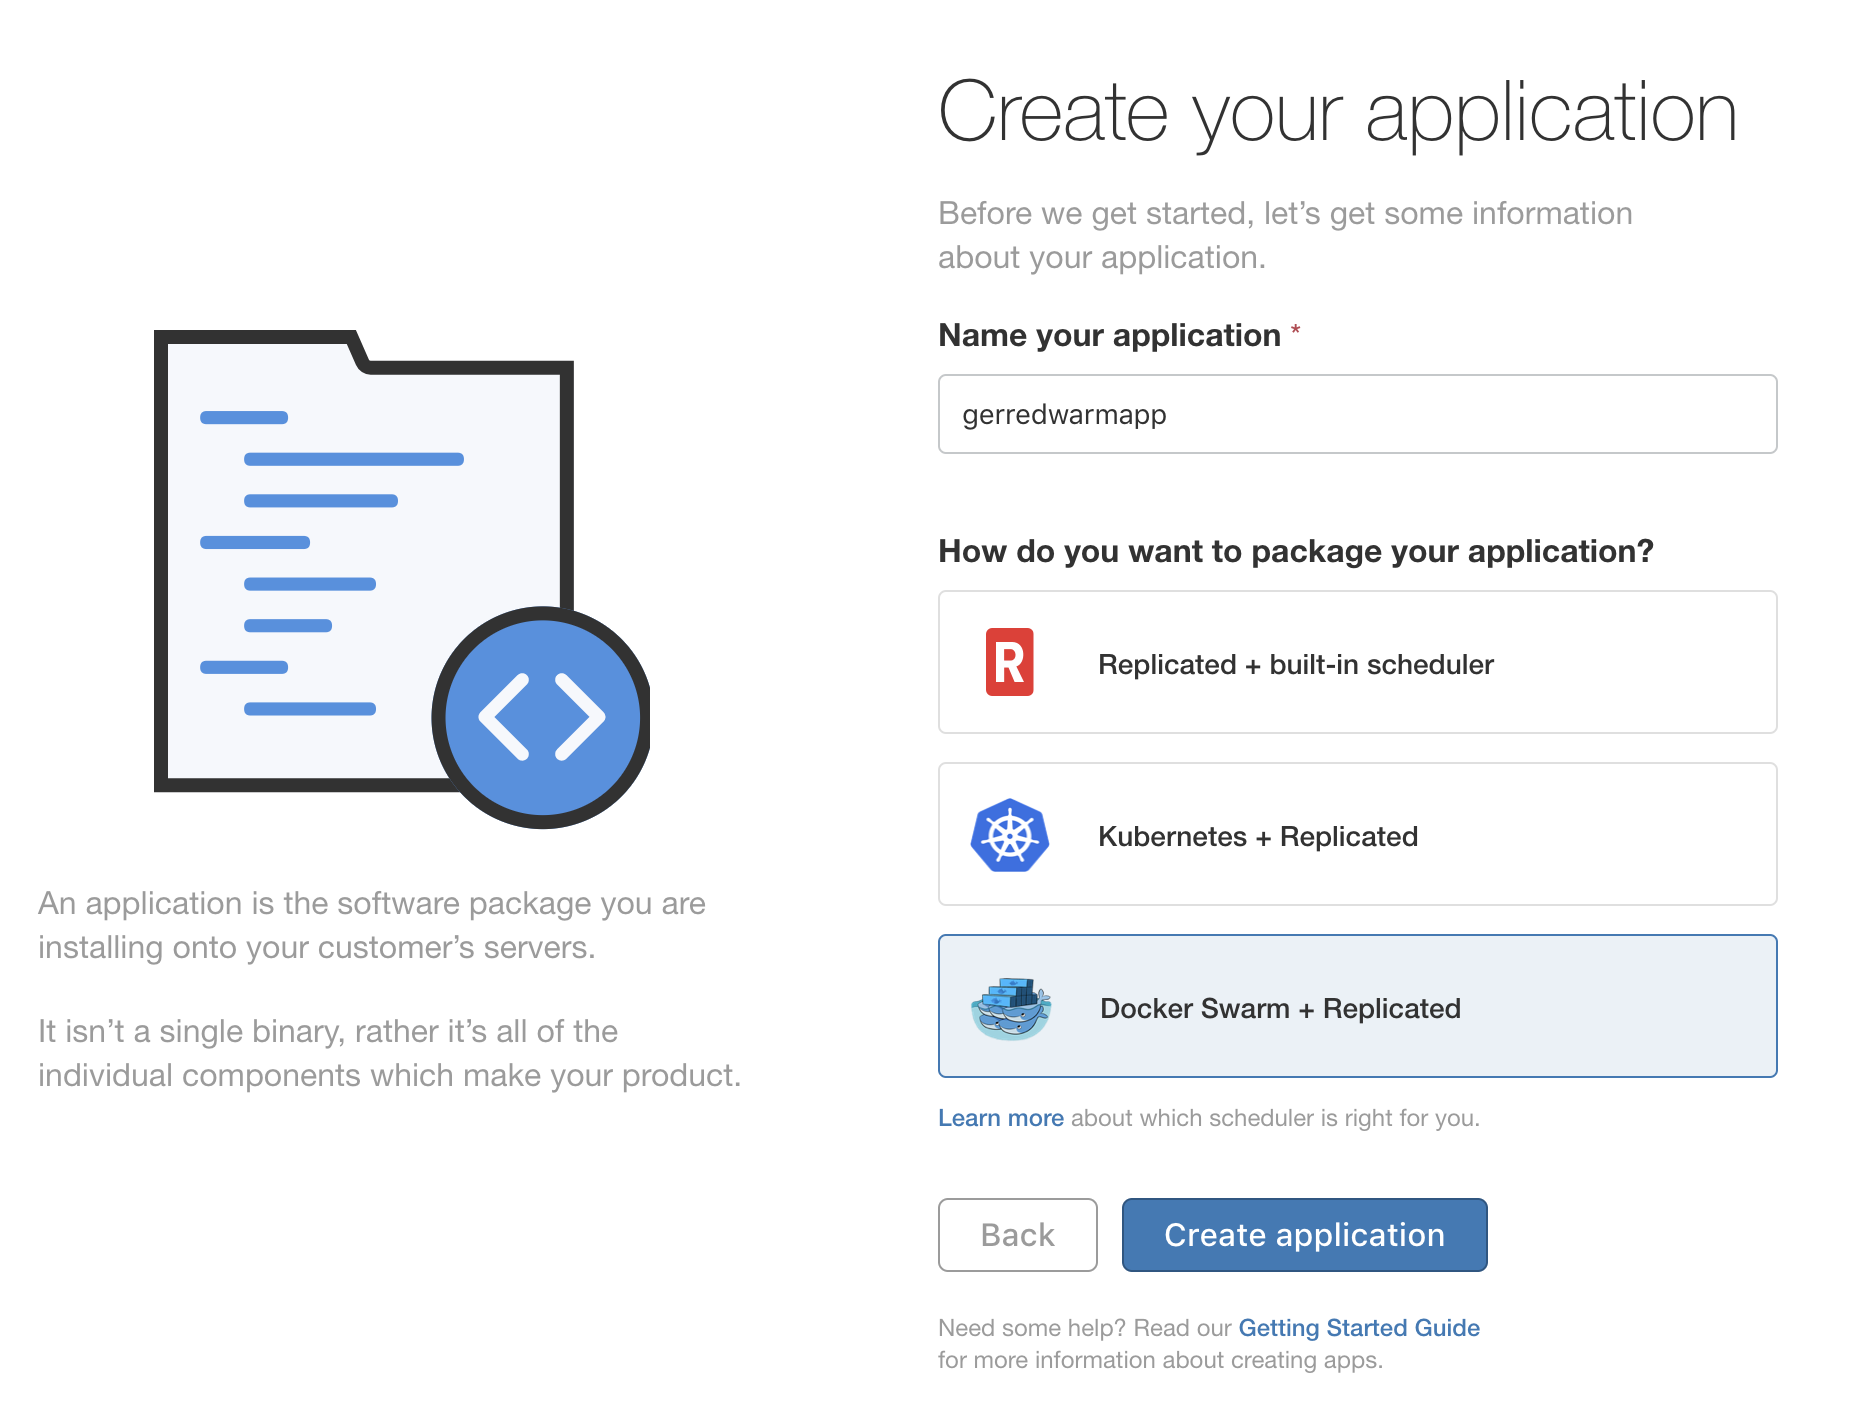
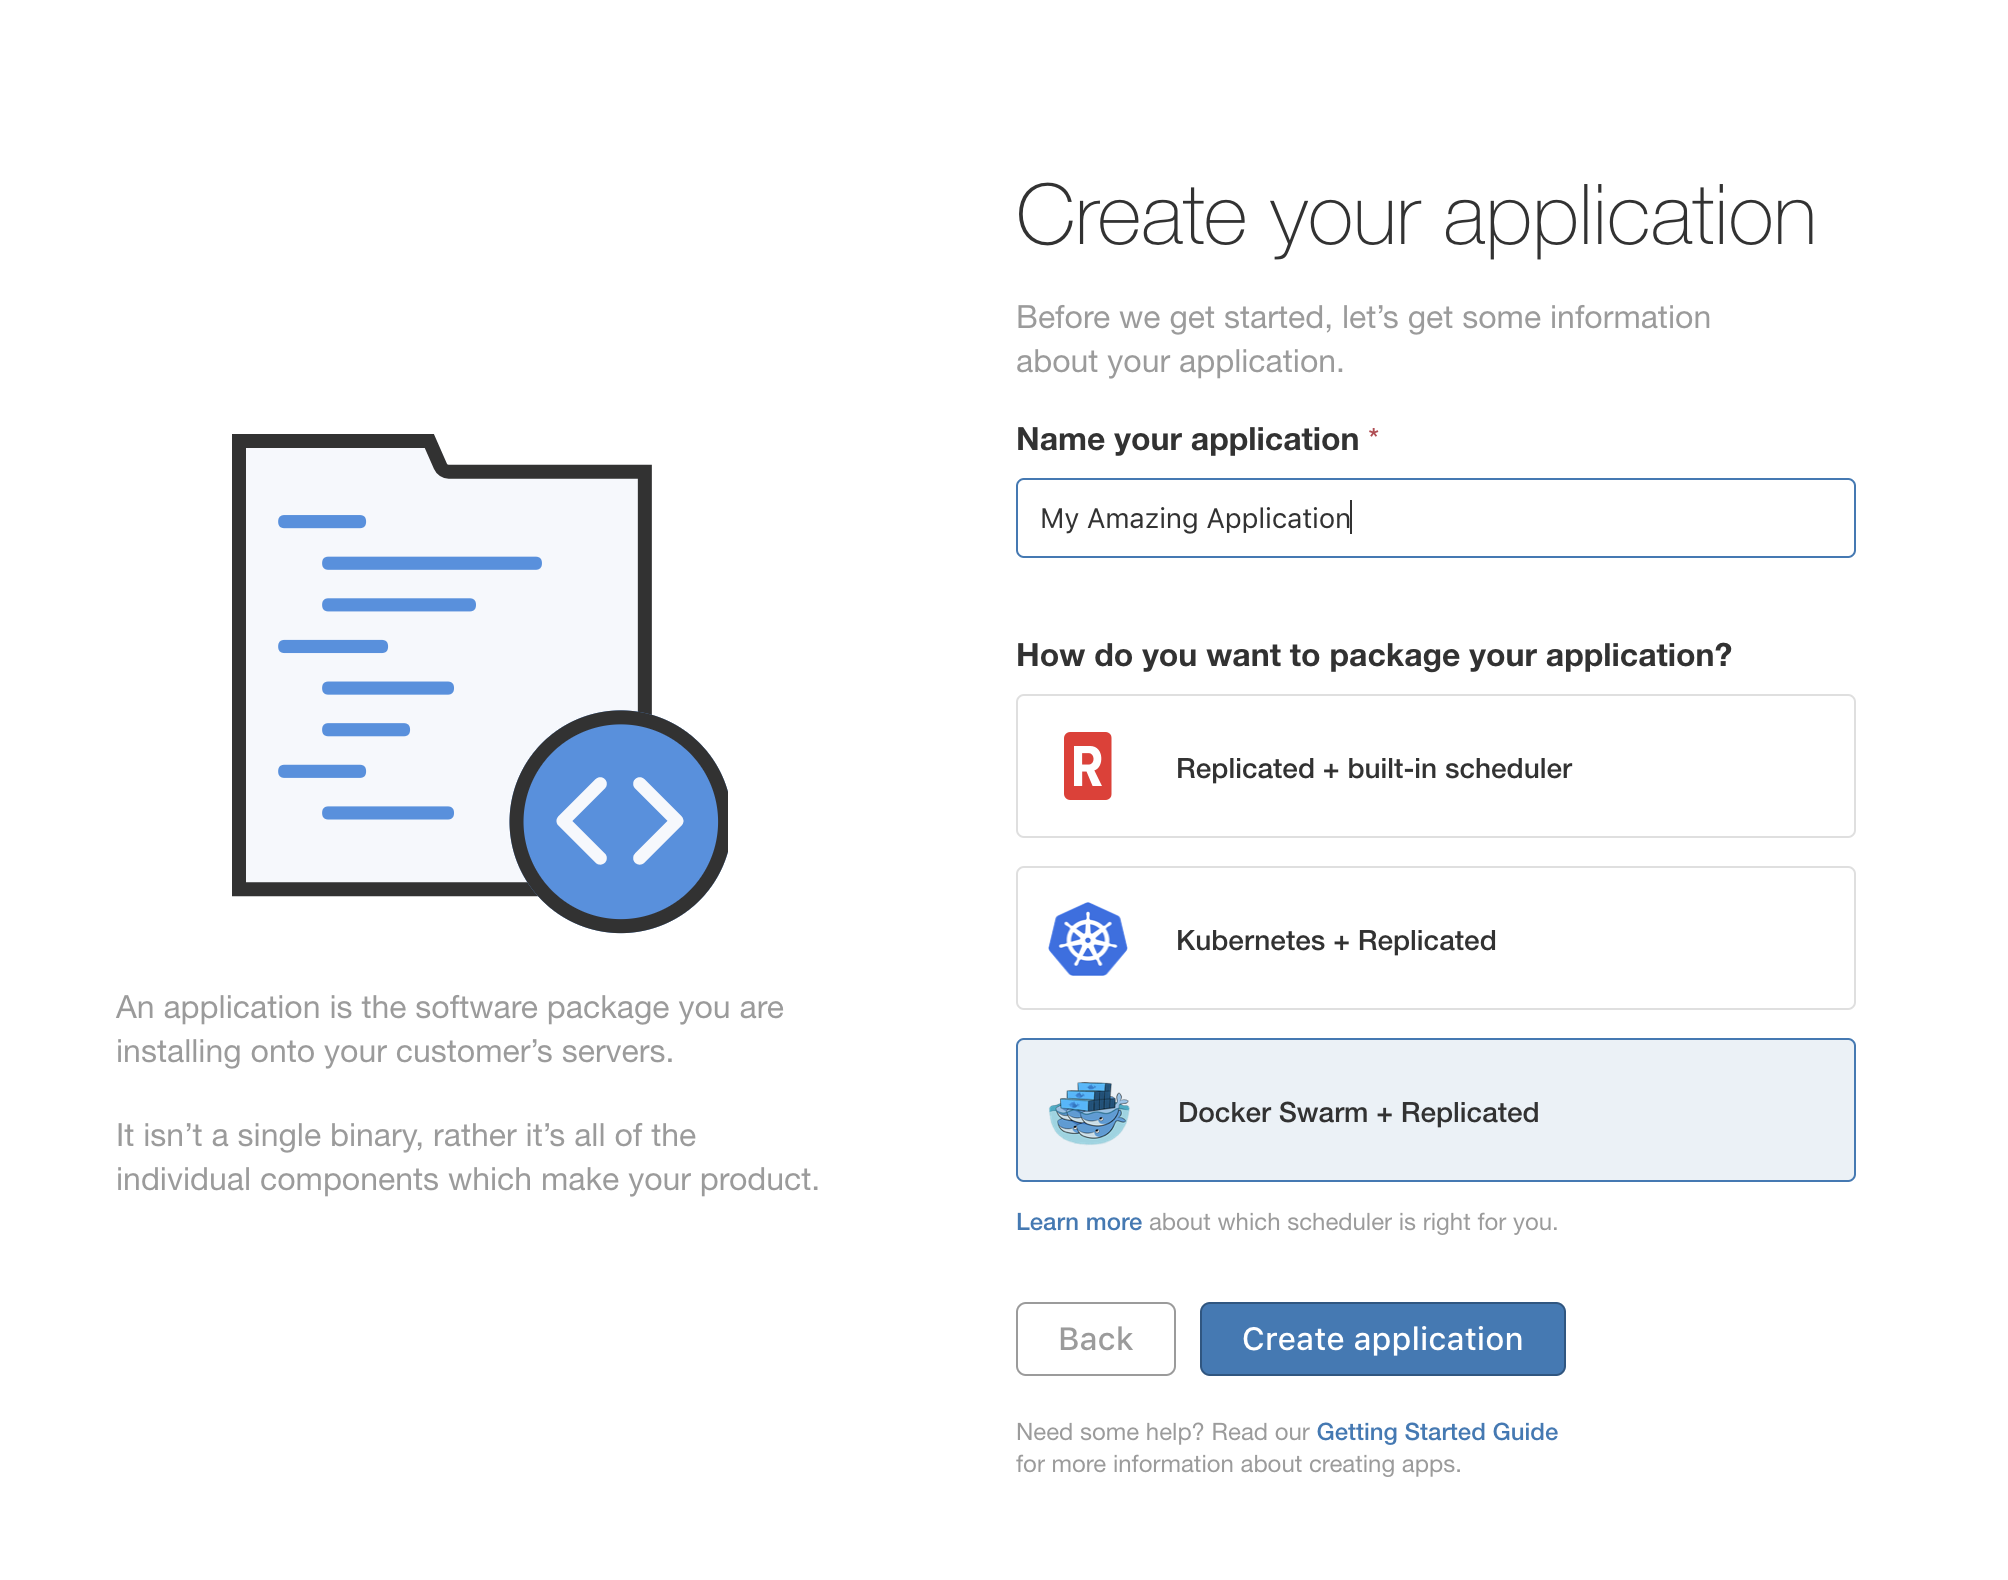
add images for the first guide

diff --git a/content/guides/ship-with-docker-swarm/create-swarm-app.md b/content/guides/ship-with-docker-swarm/create-swarm-app.md
@@ -69,15 +69,23 @@ If you require help at any time with these steps, help is available through the 
 
 {{< linked_headline "Create a New Application" >}}
 
-The first step in porting our software to a Replicated release is to create a new application in the [Vendor Portal](https://vendor.replicated.com). Sign up and activate your account to access the primary dashboard, which prompts you to create a new application.
+The first step in porting our software to a Replicated release is to create a new application in the [Vendor Portal](https://vendor.replicated.com). Sign up and activate your account to access the primary dashboard, which prompts you to create a new application. Fill in an application name, select the `Docker Swarm + Replicated` option, and click "Create application" to continue.
 
-Creating a Replicated application redirects you to a specific dashboard for this application. This dashboard is the main location for managing releases, customer licenses, and channels  releases to customer licenses. The default page for applications is the "Channels" page. In Replicated, a channel represents a stage for your application and is assigned to a release, or version of your application. Through this, your application can map to your organization's release strategy by concurrently providing stable, alpha, beta, and other channels for deployment. These channels, when assigned to your customers, can then update to the latest release for a given channel. To let customers switch on demand, assign them to multiple channels.
+![](/images/guides/swarm/create-app.png)
 
-New applications have "Stable", "Beta", and "Unstable" channels that we can use to start creating releases. Click the "Releases" item on the left menu to navigate to the release history. When  Click the "Create a release" button to start the process of creating our first release.
+Creating a Replicated application redirects you to a specific dashboard for this application. This dashboard is the main location for managing releases, customer licenses, and channels  releases to customer licenses. The default page for applications is the "Channels" page.
+
+![](/images/guides/swarm/default-screen.png)
+
+New applications have "Stable", "Beta", and "Unstable" channels that we can use to start creating releases. Click the "Releases" item on the left menu to navigate to the release history. Click the "Create a release" button to start the process of creating our first release.
+
+![](/images/guides/swarm/create-release.png)
 
 {{< linked_headline "Create a Release" >}}
 
 YAML is the language we use to define a Replicated application. Front and center is a YAML editor where you define the containers and configuration that comprises your application and how Replicated extends it to your customer's environment. To the right of the YAML editor is a preview of the configuration items as defined by your Replicated YAML. The default document stubs in a hostname field, but you will want to use config items to let end users customize your application to fit natively to their enterprise environments.
+
+![](/images/guides/swarm/default-yaml.png)
 
 In this editor, there will be two YAML documents separated by a page separator: `---`. The first document, annotated with `# kind: replicated`, represents all of the Replicated-specific functionality available to you such as configuration, snapshots, and configuration files. The second document, annotated with `# kind: scheduler-swarm` represents our Docker Compose file defining all of the Swarm services and their configuration.
 
